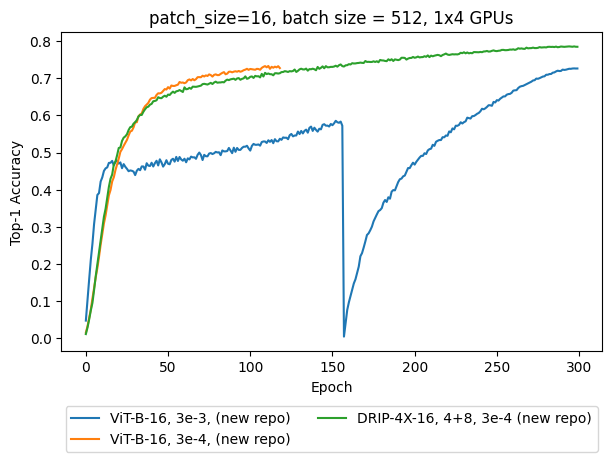
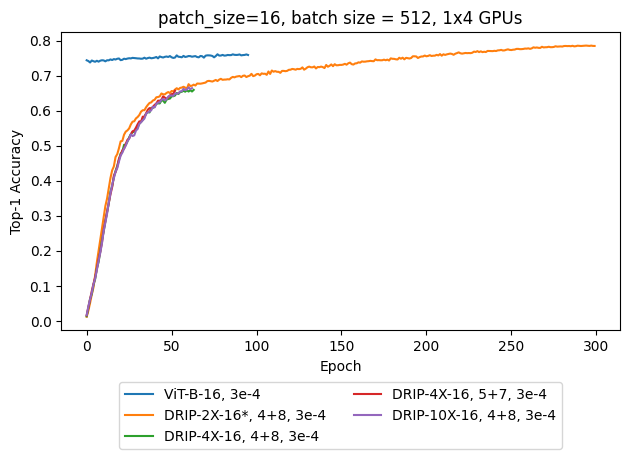
fix the wrapper issue with XL_Baseline

diff --git a/src/task1_newcodebase.py b/src/task1_newcodebase.py
@@ -31,10 +31,10 @@ import torch.multiprocessing as mp
 from transformers import get_cosine_schedule_with_warmup
 
 class VisionClassifier(nn.Module):
-    def __init__(self, backbone: DTPViT | VisionTransformer, num_classes):
+    def __init__(self, backbone: DTPViT | VisionTransformer | XL_Baseline, num_classes):
         super().__init__()
         self.backbone = backbone
-        if isinstance(backbone, DTPViT):
+        if isinstance(backbone, DTPViT) or isinstance(backbone, XL_Baseline):
             self.fc = nn.Linear(backbone.num_classes, num_classes)
         elif isinstance(backbone, VisionTransformer):
             self.fc = nn.Linear(backbone.output_dim, num_classes)
@@ -1149,7 +1149,8 @@ def main(args):
         print(f"are we using XL backbone? {use_XL_backbone}", flush=True)
         if use_XL_backbone:
             print("use XL backbone!")
-            model = XL_Baseline(
+            patch_size = 16
+            empty_backbone = XL_Baseline(
                 image_size=224,
                 patch_size=patch_size,
                 in_chans=3,
@@ -1163,6 +1164,9 @@ def main(args):
                 activation_function="gelu",
                 num_classes=512,
             )
+            backbone = empty_backbone
+            model = VisionClassifier(backbone, num_classes).to(device)
+
         else:
             print("use ViT!")
             model = torchvision.models.get_model(args.model, weights=args.weights, num_classes=num_classes)
@@ -1242,10 +1246,10 @@ def main(args):
 
     model_without_ddp = model
     if args.distributed:
-        if not use_DRIP:
+        if not use_DRIP and not use_XL_backbone:
             model = torch.nn.parallel.DistributedDataParallel(model, device_ids=[args.gpu])
         else:
-            # we need to tolerate conditional execution for DRIP, but we don't need it for ViT
+            # we need to tolerate conditional execution for DRIP
             model = torch.nn.parallel.DistributedDataParallel(
                 model,
                 device_ids=[args.gpu],

diff --git a/src/ImageNet_acc_vis.py b/src/ImageNet_acc_vis.py
@@ -34,10 +34,7 @@ def parse_all_accuracies(model2path: Dict) -> Dict:
     """Parses all files in the model2path dictionary to extract accuracies."""
     model2acc = {}
     for model, path in model2path.items():
-        if 'new repo' in model:
-            model2acc[model] = parse_one_accuracy(path, newcodebase=True)
-        else:
-            model2acc[model] = parse_one_accuracy(path, newcodebase=False)
+        model2acc[model] = parse_one_accuracy(path, newcodebase=True)
     return model2acc
 
 def plot_acc_vis(model2acc: Dict, patch_size: int) -> None:
@@ -59,9 +56,11 @@ def plot_acc_vis(model2acc: Dict, patch_size: int) -> None:
 def main():
     PATCH_SIZE = 16
     model2path = {
-        'ViT-B-16, 3e-3, (new repo)': 'AUG_20_new_imagenet_codebase.txt',
-        'ViT-B-16, 3e-4, (new repo)': 'AUG_27_Vit_0.0003_imagenet.txt',
-        'DRIP-4X-16, 4+8, 3e-4 (new repo)': 'AUG_23_DRIP_4x_4_8_0.0003.txt'
+        'ViT-B-16, 3e-4': 'AUG_27_Vit_0.0003_imagenet.txt',
+        'DRIP-2X-16*, 4+8, 3e-4': 'AUG_23_DRIP_4x_4_8_0.0003.txt',
+        'DRIP-4X-16, 4+8, 3e-4': 'AUG_29_DRIP_ViTbased_4x_4_8.txt',
+        'DRIP-4X-16, 5+7, 3e-4': 'AUG_29_DRIP_ViTbased_4x_5_7.txt',
+        'DRIP-10X-16, 4+8, 3e-4': 'AUG_29_DRIP_ViTbased_10x_4_8.txt'
     }
 
     model2acc = parse_all_accuracies(model2path)

diff --git a/src/open_clip_local/DTP_ViT.py b/src/open_clip_local/DTP_ViT.py
@@ -1087,7 +1087,17 @@ class XL_Baseline(nn.Module):
         Full forward pass including pooling to class logits.
         """
         features_out = self.encode(x, return_loss=return_loss)
-        x = features_out
+
+        # pool across sequence dimension with mean pooling
+        pad_mask = features_out.abs().sum(-1).eq(0).float()           # S x B
+        valid_mask = 1.0 - pad_mask                        # S x B
+        valid_mask_exp = valid_mask.unsqueeze(-1)          # S x B x 1
+
+        x = features_out * valid_mask_exp                             # Mask padded tokens
+        sum_x = x.sum(dim=0)                               # B x D
+        valid_counts = valid_mask.sum(dim=0).clamp(min=1e-6).unsqueeze(-1)  # B x 1
+        x = sum_x / valid_counts                           # B x D (masked mean)
+
         logits = self.head(x)
         return logits
     
